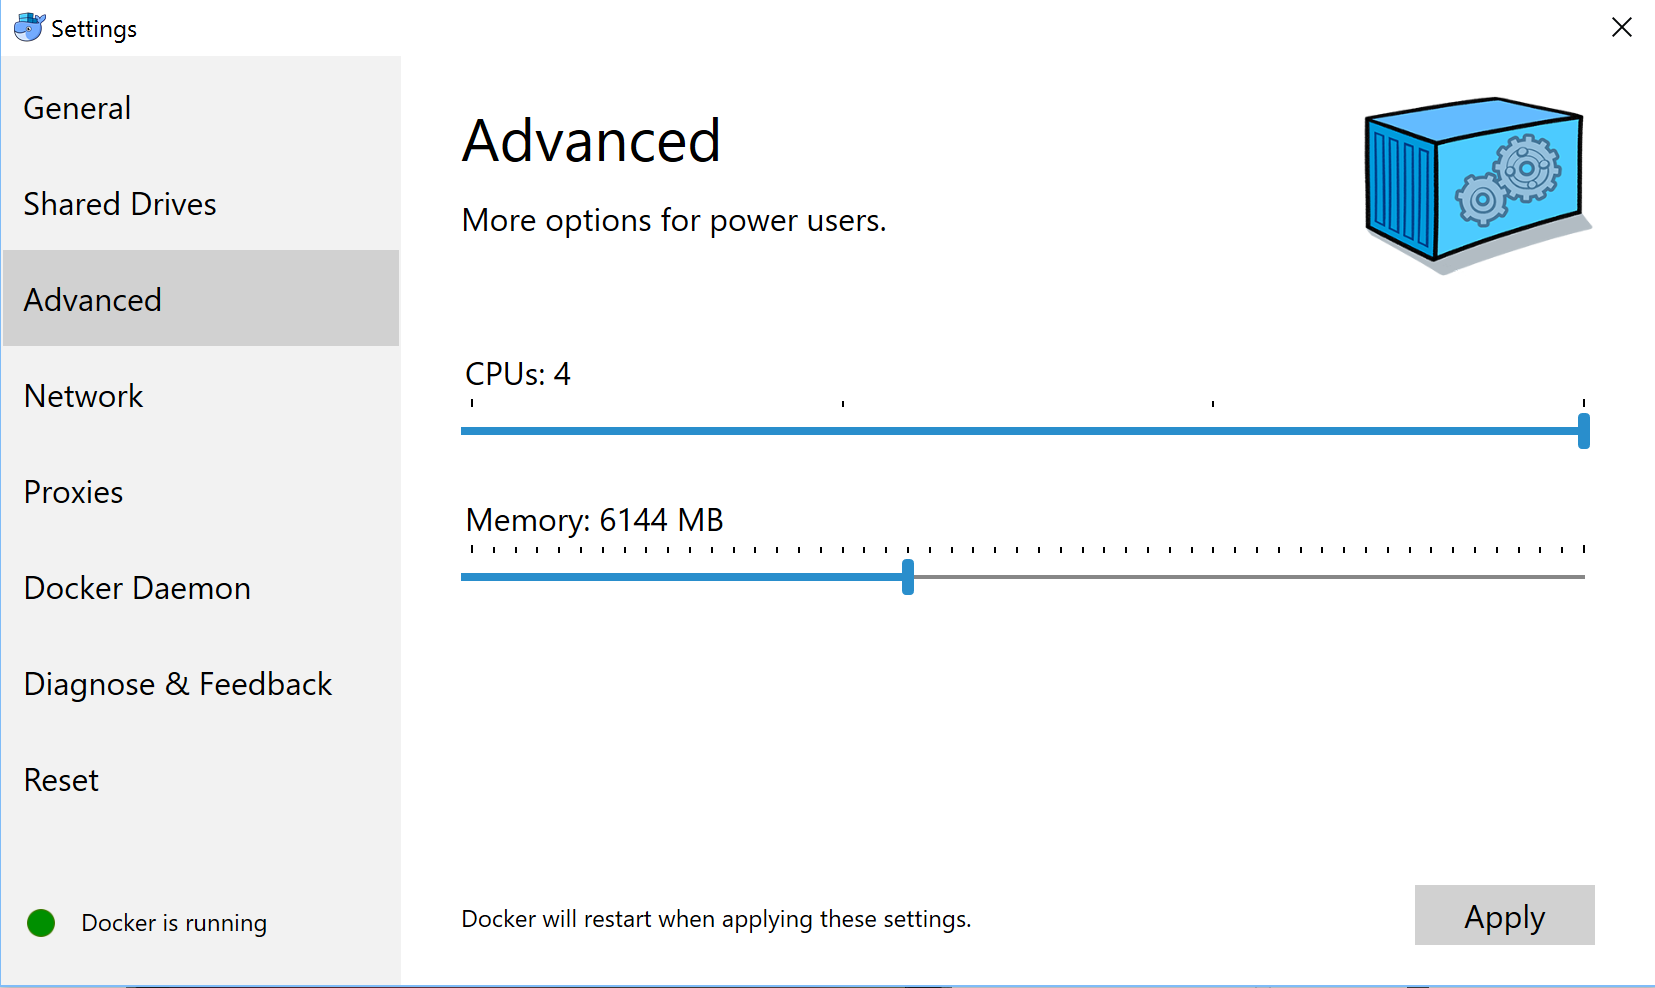
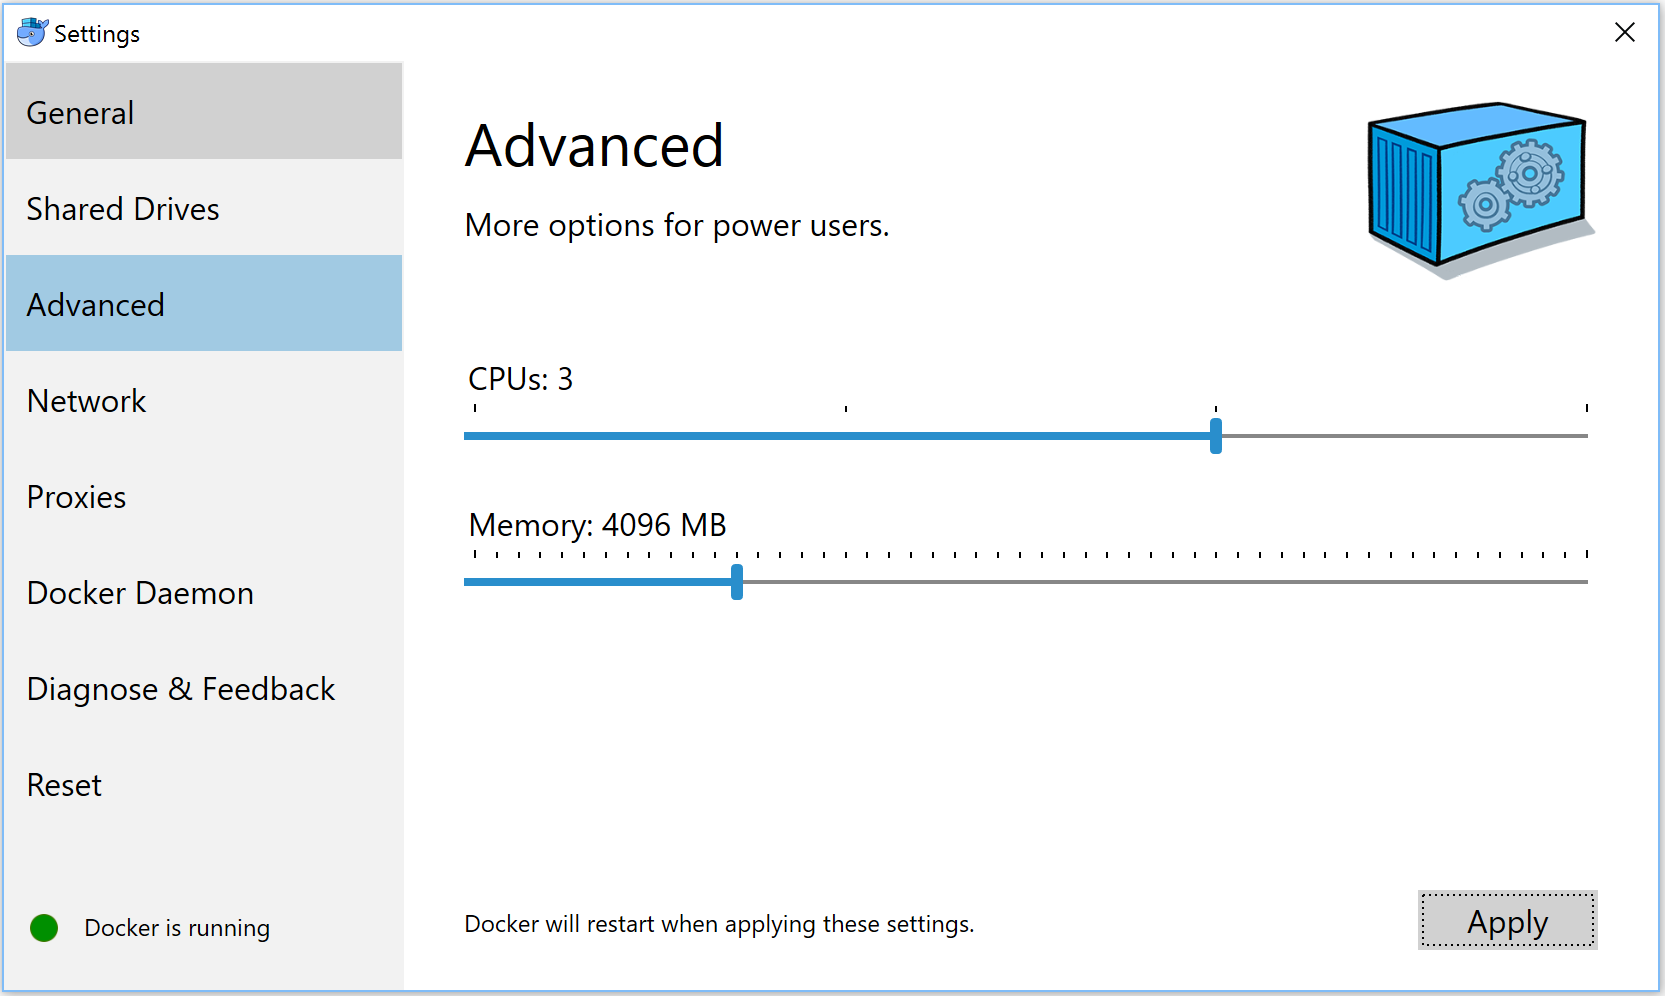
Minor changes in README.md and Xamarin startup config

diff --git a/src/Mobile/eShopOnContainers/eShopOnContainers.Core/GlobalSettings.cs b/src/Mobile/eShopOnContainers/eShopOnContainers.Core/GlobalSettings.cs
@@ -8,7 +8,7 @@
         public GlobalSetting()
         {
             AuthToken = "INSERT AUTHENTICATION TOKEN";
-            BaseEndpoint = "http://13.88.8.119";
+            BaseEndpoint = "http://10.106.144.28";
         }
 
         public static GlobalSetting Instance

diff --git a/src/Mobile/eShopOnContainers/eShopOnContainers.Core/App.xaml.cs b/src/Mobile/eShopOnContainers/eShopOnContainers.Core/App.xaml.cs
@@ -25,7 +25,7 @@ namespace eShopOnContainers
 
         private void InitApp()
         {
-            UseMockServices = true;
+            UseMockServices = false;
 
             ViewModelLocator.Instance.UpdateDependencies(UseMockServices);
         }

diff --git a/README.md b/README.md
@@ -49,8 +49,8 @@ MAC DEV MACHINE
 ### Installing and configuring Docker in your development machine
 
 #### Set needed assigned Memory and CPU to Docker
-In this application (January 2017 version) we run 1 instance of SQL Server running as a container plus 6 ASP.NET Core apps/services and 1 Redis server all of them running as Docker containers. So, especially because of SQL Server requirements on memory, it is important to set Docker up properly with enough memory RAM and CPU assigned to it or you will get difficult errors when starting the containers with "docker-compose up". 
-Once Docker for Windows/Mac is installed in your machine, enter into its Settings and the Advanced menu option so you are able to adjust it to the new values (Memory: Around 6GB and CPU:4) as shown in the image. Usually you might need a 16GB or 12GB memory machine for this configuration. If you have a less powerful machine, you can try with a lower configuration and/or by not starting certain containers like the basket and Redis. But if you don't start all the containers, the application will not fully function properly, of course. 
+In this application (January 2017 version) we run 1 instance of SQL Server running as a container with multiple databases (one DB per microservice), plus 6 ASP.NET Core apps/services and 1 Redis server, all of them running as Docker containers. So, especially because of SQL Server requirements on memory, it is important to set Docker up properly with enough memory RAM and CPU assigned to it or you will get difficult errors when starting the containers with "docker-compose up". 
+Once Docker for Windows/Mac is installed in your machine, enter into its Settings and the Advanced menu option so you are able to adjust it to the minimum amount of memory and CPU (Memory: Around 4096MB and CPU:3) as shown in the image. Usually you might need a 16GB memory machine for this configuration if you also want to run the Android emulator for the Xamarin app at the same time. If you have a less powerful machine, you can try with a lower configuration and/or by not starting certain containers like the basket and Redis. But if you don't start all the containers, the application will not fully function properly, of course. 
 
 <img src="img/docker_settings.png">
 

diff --git a/src/Web/WebSPA/eShopOnContainers.WebSPA/README.md b/src/Web/WebSPA/eShopOnContainers.WebSPA/README.md
@@ -5,7 +5,7 @@
 
 
 ### Install NPM
-The SPA application is using a newer version of NPM than the one provided by Visual Studio 2015 (npm 2.7.4 currently), so you need to install the latest stable version of NPM,like npm .
+The SPA application is using a newer version of NPM than the one provided by Visual Studio 2015 (npm 2.7.4 currently), so you need to install the latest stable version of NPM.
 
 NPM is bundled with NODE.JS. Installing NPM and NODE is pretty straightforward by using the installer package available at https://nodejs.org/en/
 
